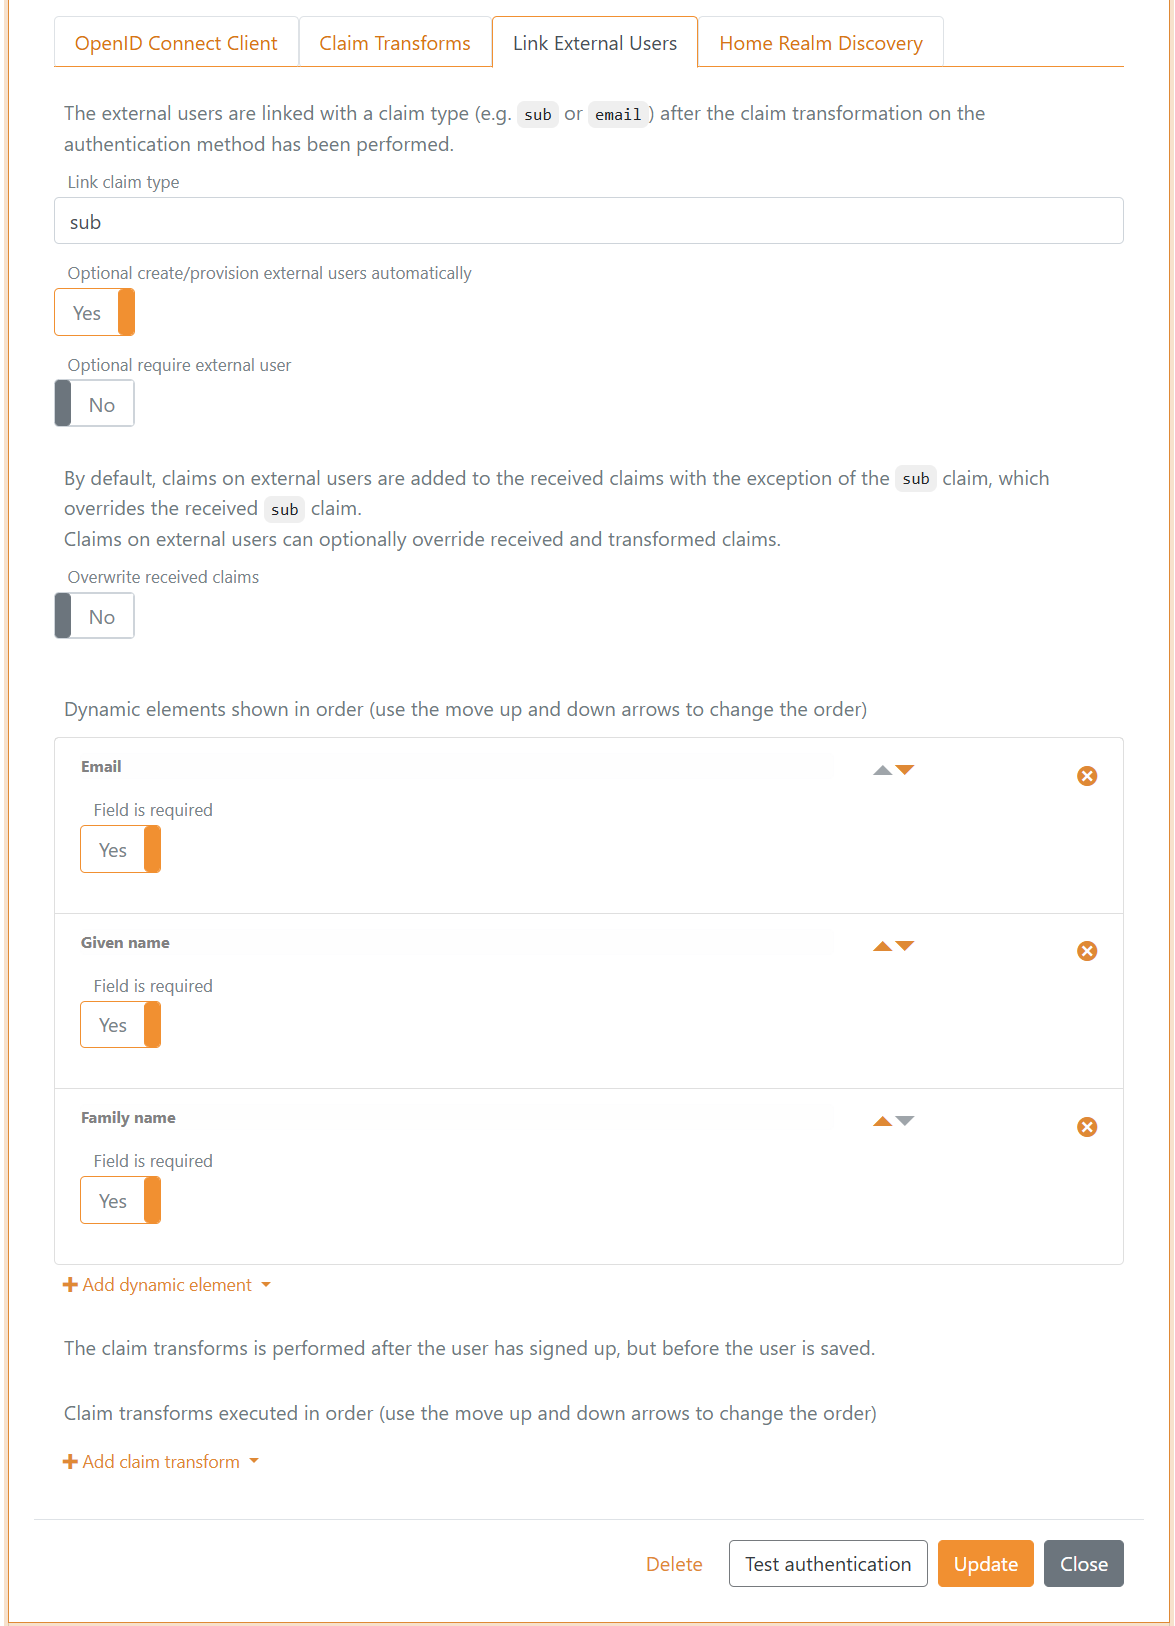
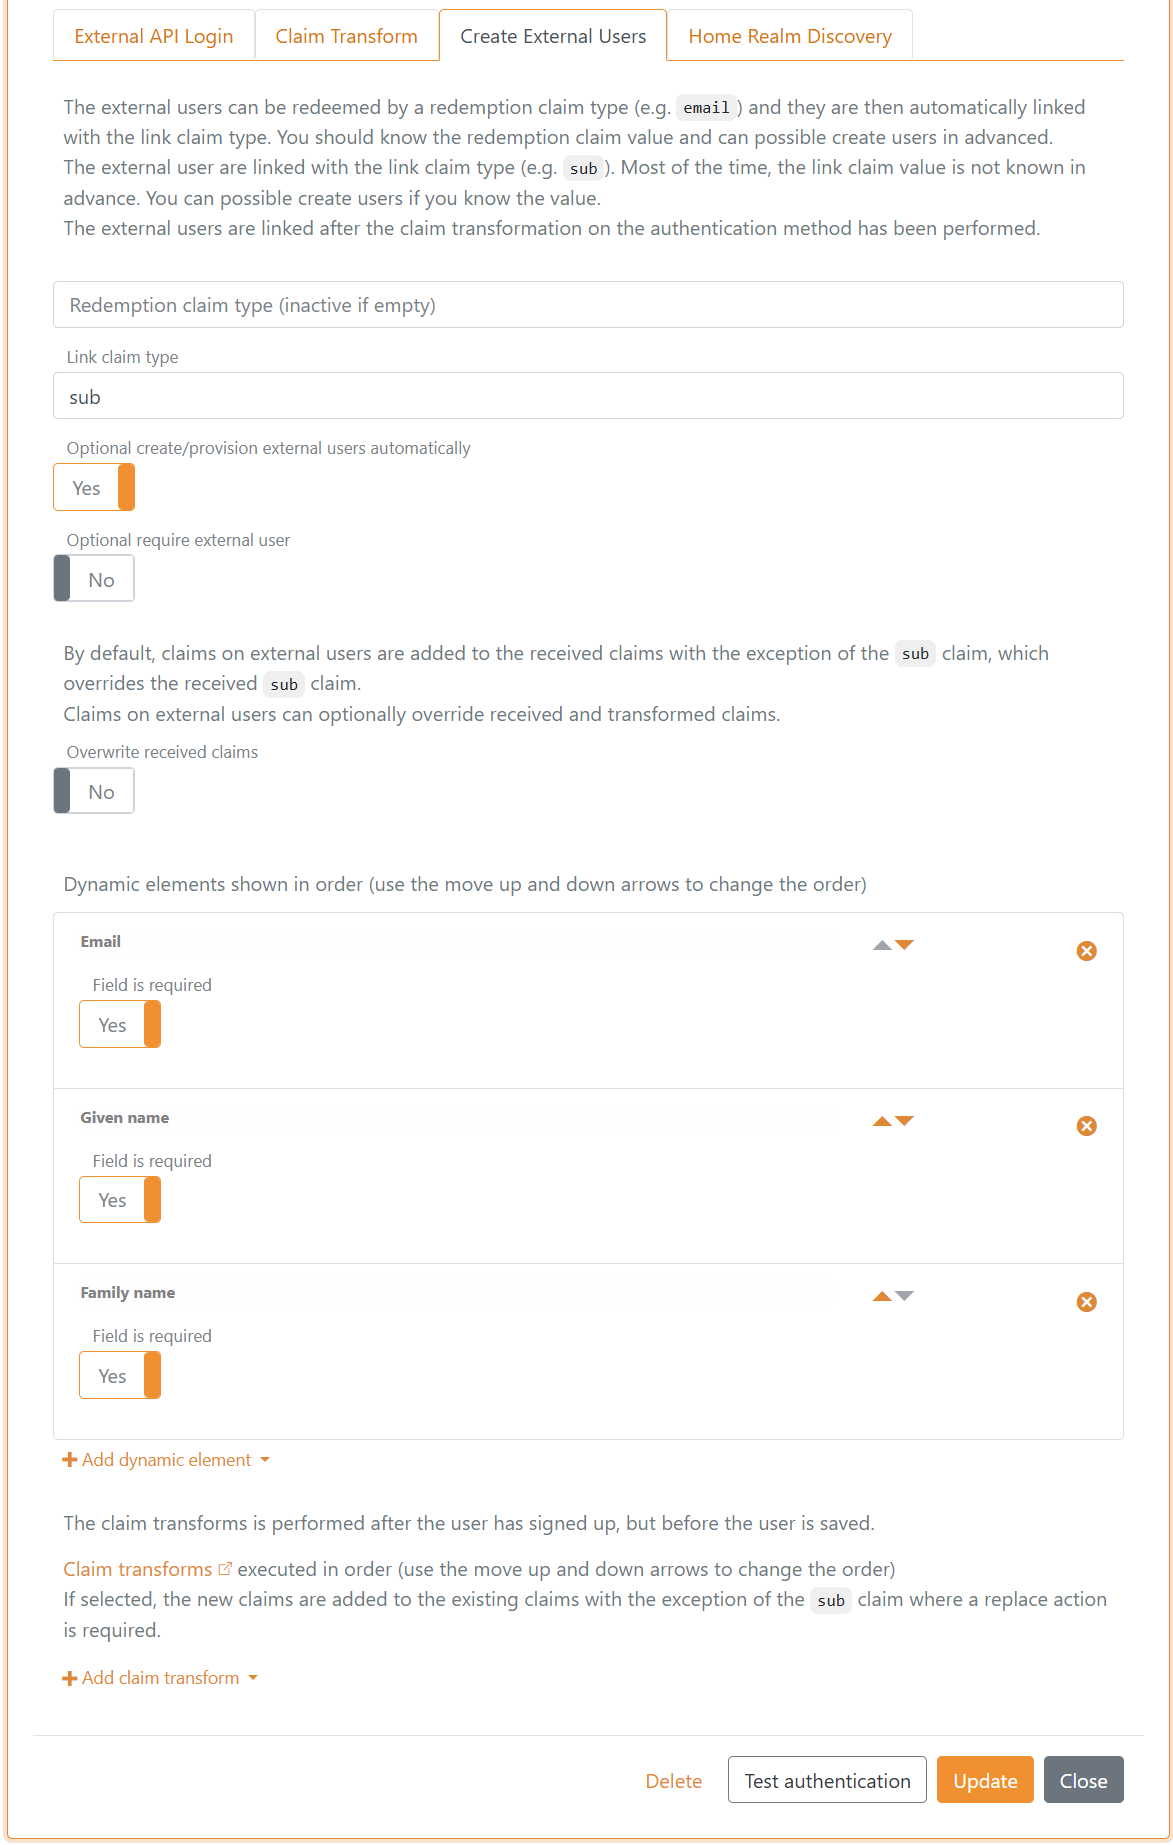
Cods external users

diff --git a/docs/users.md b/docs/users.md
@@ -3,7 +3,7 @@ Users are saved in the environment's user repository. To achieve multiple user s
 
 There are two different types of users:
 - [Internal users](#internal-users) which are authenticated using the [login](login.md) authentication method.
-- [External users](#external-users) which are linked by an authenticated method to an external user/identity with a claim. The user is authenticated in an external Identity Provider using an authenticated method: OpenID Connect, SAML 2.0, External Login or Environment Link.
+- [External users](#external-users) which are linked by an authenticated method to an external user/identity with a claim. The users are authenticated in an external Identity Provider and the users can be [redeemed](#provision-and-redeem) based on e.g. an `email` claim.
 
 ## Internal users
 Internal users can be authenticated in all [login](login.md) authentication methods in an environment, making is possible to [customize](customization.md) the login experience e.g., depending on different [application](connections.md#application-registration) requirements.
@@ -53,17 +53,17 @@ Current supported hash algorithm `P2HS512:10` which is defined as:
 Standard .NET liberals are used to calculate the hash.
 
 ## External users
-An external user is linked to one authentication method and can only be authenticated with that particular authentication method. External users can be linked to the authentication methods: OpenID Connect, SAML 2.0, External Login or Environment Link.  
+An external user is linked to one authentication method and can only be authenticated with that particular authentication method. External users can be linked to the authentication methods: OpenID Connect, SAML 2.0, External Login and Environment Link.  
 It is optional to use external users, they are not created by default.
 
-All external user grouped under a authentication method is linked with the same claim type (e.g. the `sub` or `email` claim type) and the users are separated by unique claim values.
+All external user grouped under an authentication method is linked with the same claim type (e.g. the `sub` claim type) and the users are separated by unique claim values.
 
 > With external users you can store claims on each user. E.g. store the your user ID claim representing the user in your system and thereby mapping the external user ID to your user ID. 
 
-A unique ID is by default added to each external user.
+An automatically generated unique ID is added to each external user by default.
 
 ### Create external user
-Depending on the selected authentication method's configuration, new users is asked to fill out a form to create a user.
+Depending on the selected authentication method's configuration, new users is optionally asked to fill out a form to create a user.
 
 ![New external users create an account](images/user-external-create-new-account.png)
 
@@ -78,9 +78,22 @@ This is the configuration in a [OpenID Connect](auth-method-oidc.md) authenticat
 
 > If the login sequence is started base on a [login](login.md) authentication method, it provides the basis for the UI look and feel ([customize](customization.md)). Otherwise, the default [login](login.md) authentication method is selected as the base.
 
-### Provisioning
+### Provision and redeem
 External users can be created, changed and deleted with the [Control Client](control.md#foxids-control-client) or be provisioned through the [Control API](control.md#foxids-control-api).
 
-![Configure Login](images/configure-user-external.png)
+You probably do not know the link claim value in advanced because it is an external user ID. But if you do, it is possible to create users and associate them with the link claim value. Most often, you will know a redemption claim in advanced instead.
 
-In this example the user is connected to Azure AD with an OpenID Connect authentication method and a `app_user_id` claim is added with the internal user ID.
+The external users can be redeemed by a redemption claim type (e.g. `email`) and they are then automatically linked with the link claim type. 
+It is bad practice to link users based on there email over a long period of time, as emails can change. But the email is unlikely to change within the short redemption period.
+
+Once the user has been redeemed, the external user is subsequently logged in based on the link claim value.
+
+This authentication method is configured with `email` claim redemption and `sub` link claim type.
+
+![Authentication method, external user redemption](images/user-external-auth-method-redemption.png)
+
+And user's is added with their known email as the redemption claim value.
+
+![External user redemption](images/user-external-redemption.png)
+
+In this example the user is connected to Google Workspace with an OpenID Connect authentication method and a `app_user_id` claim is added with an internal user ID.
